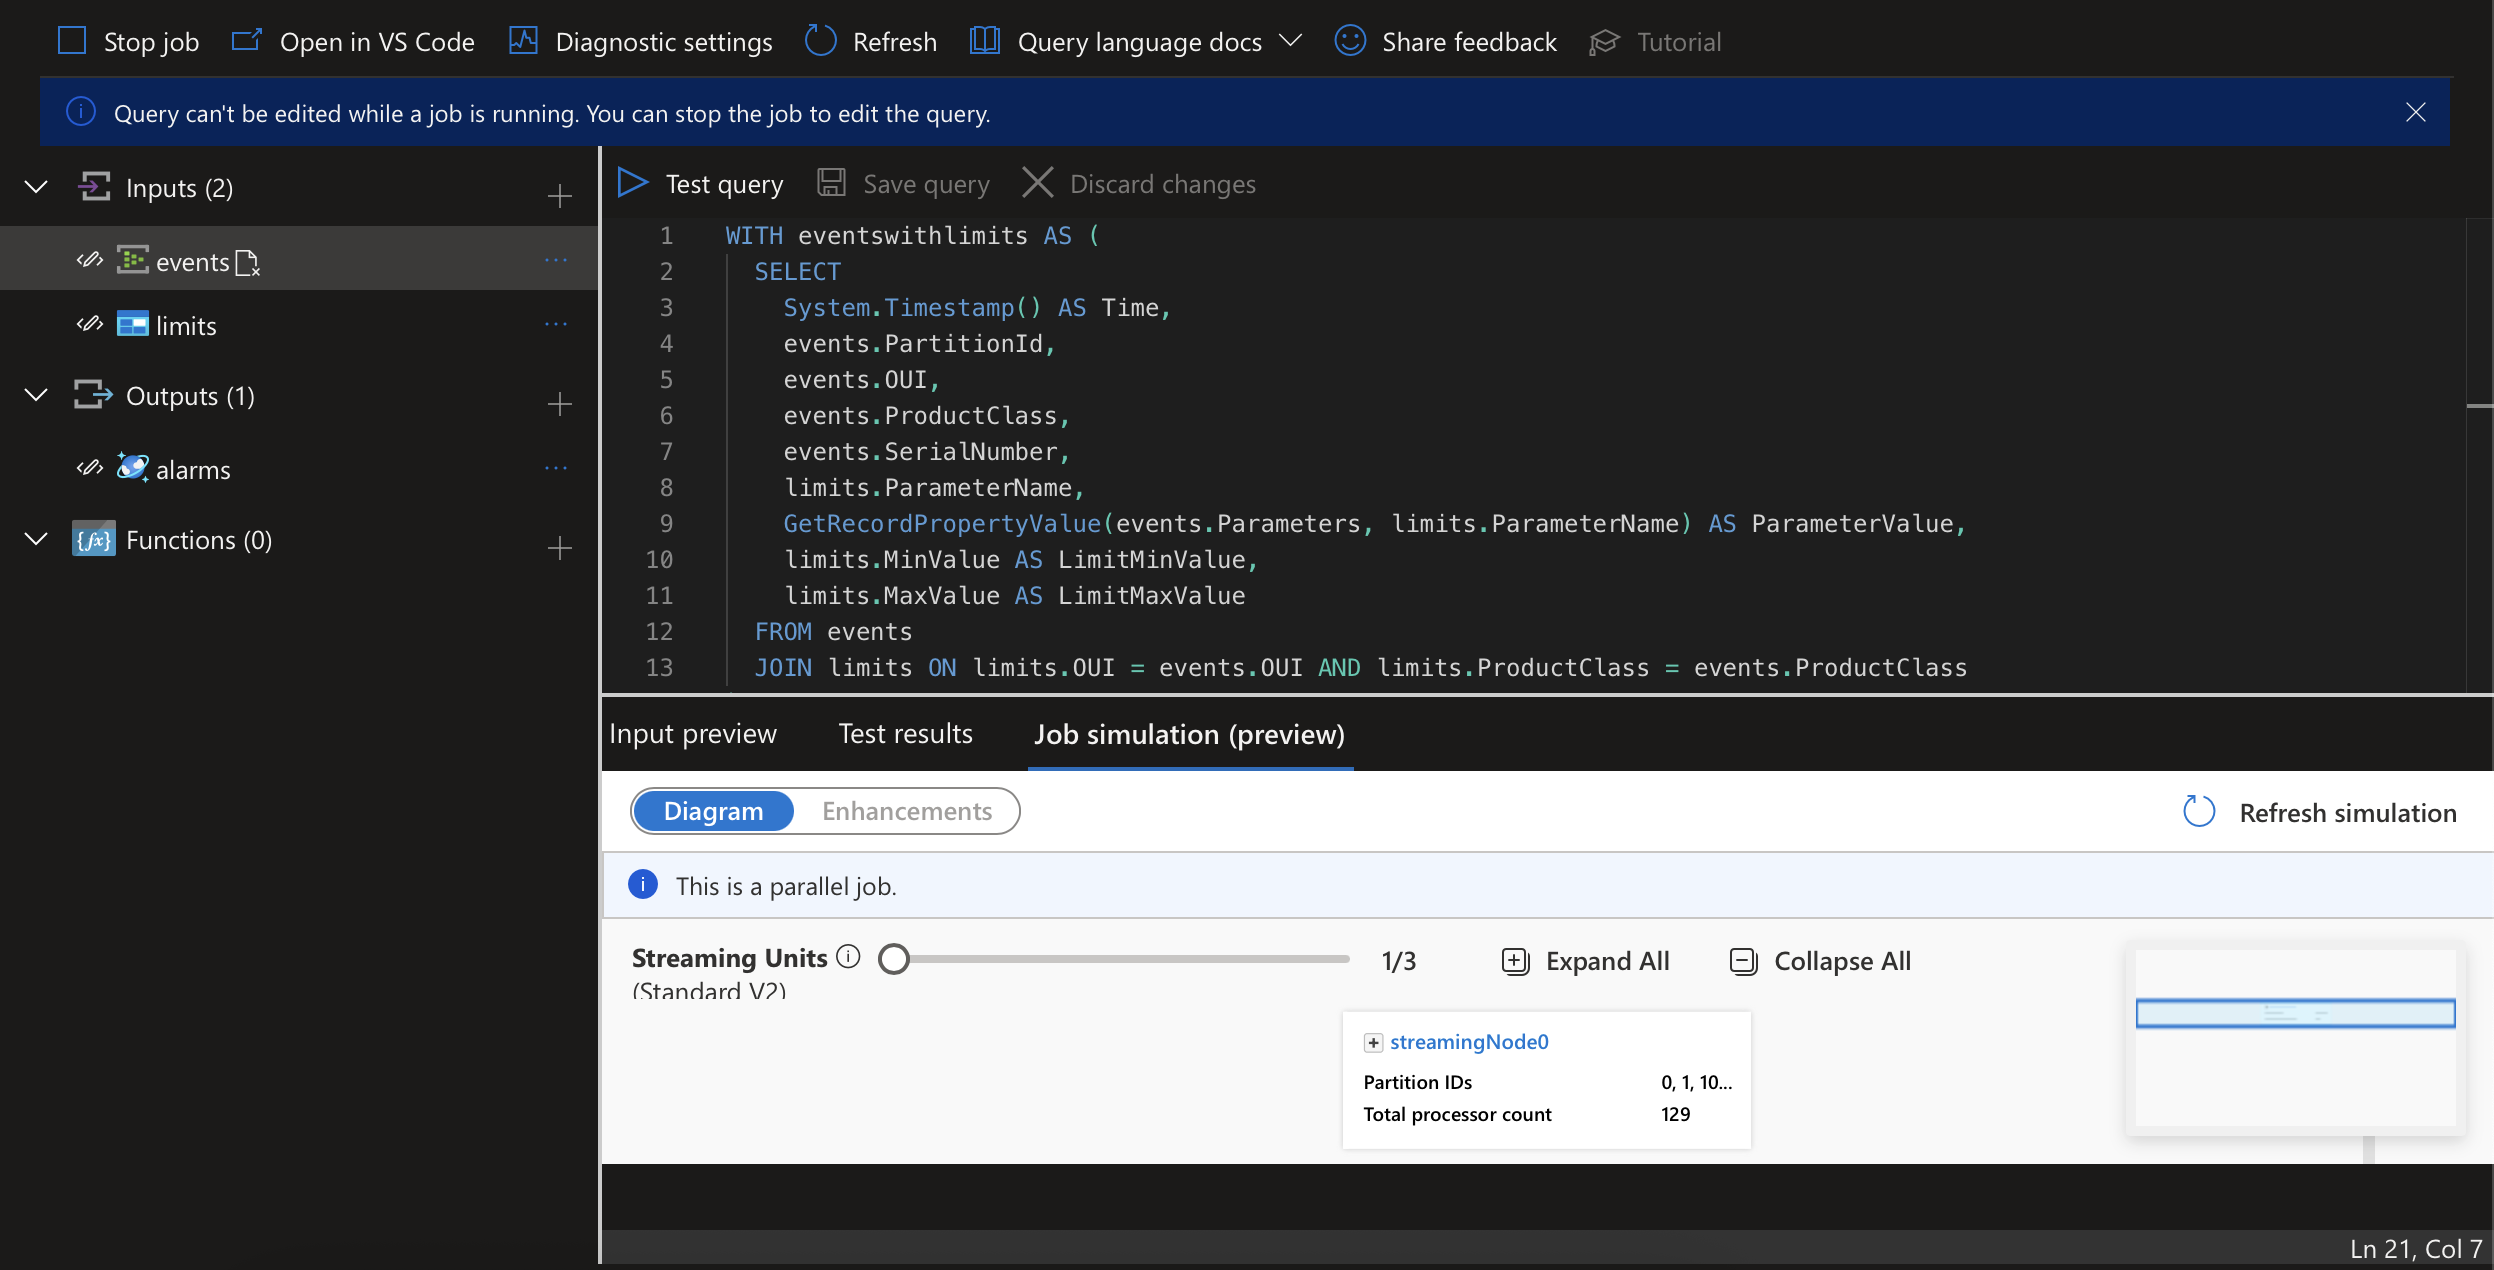
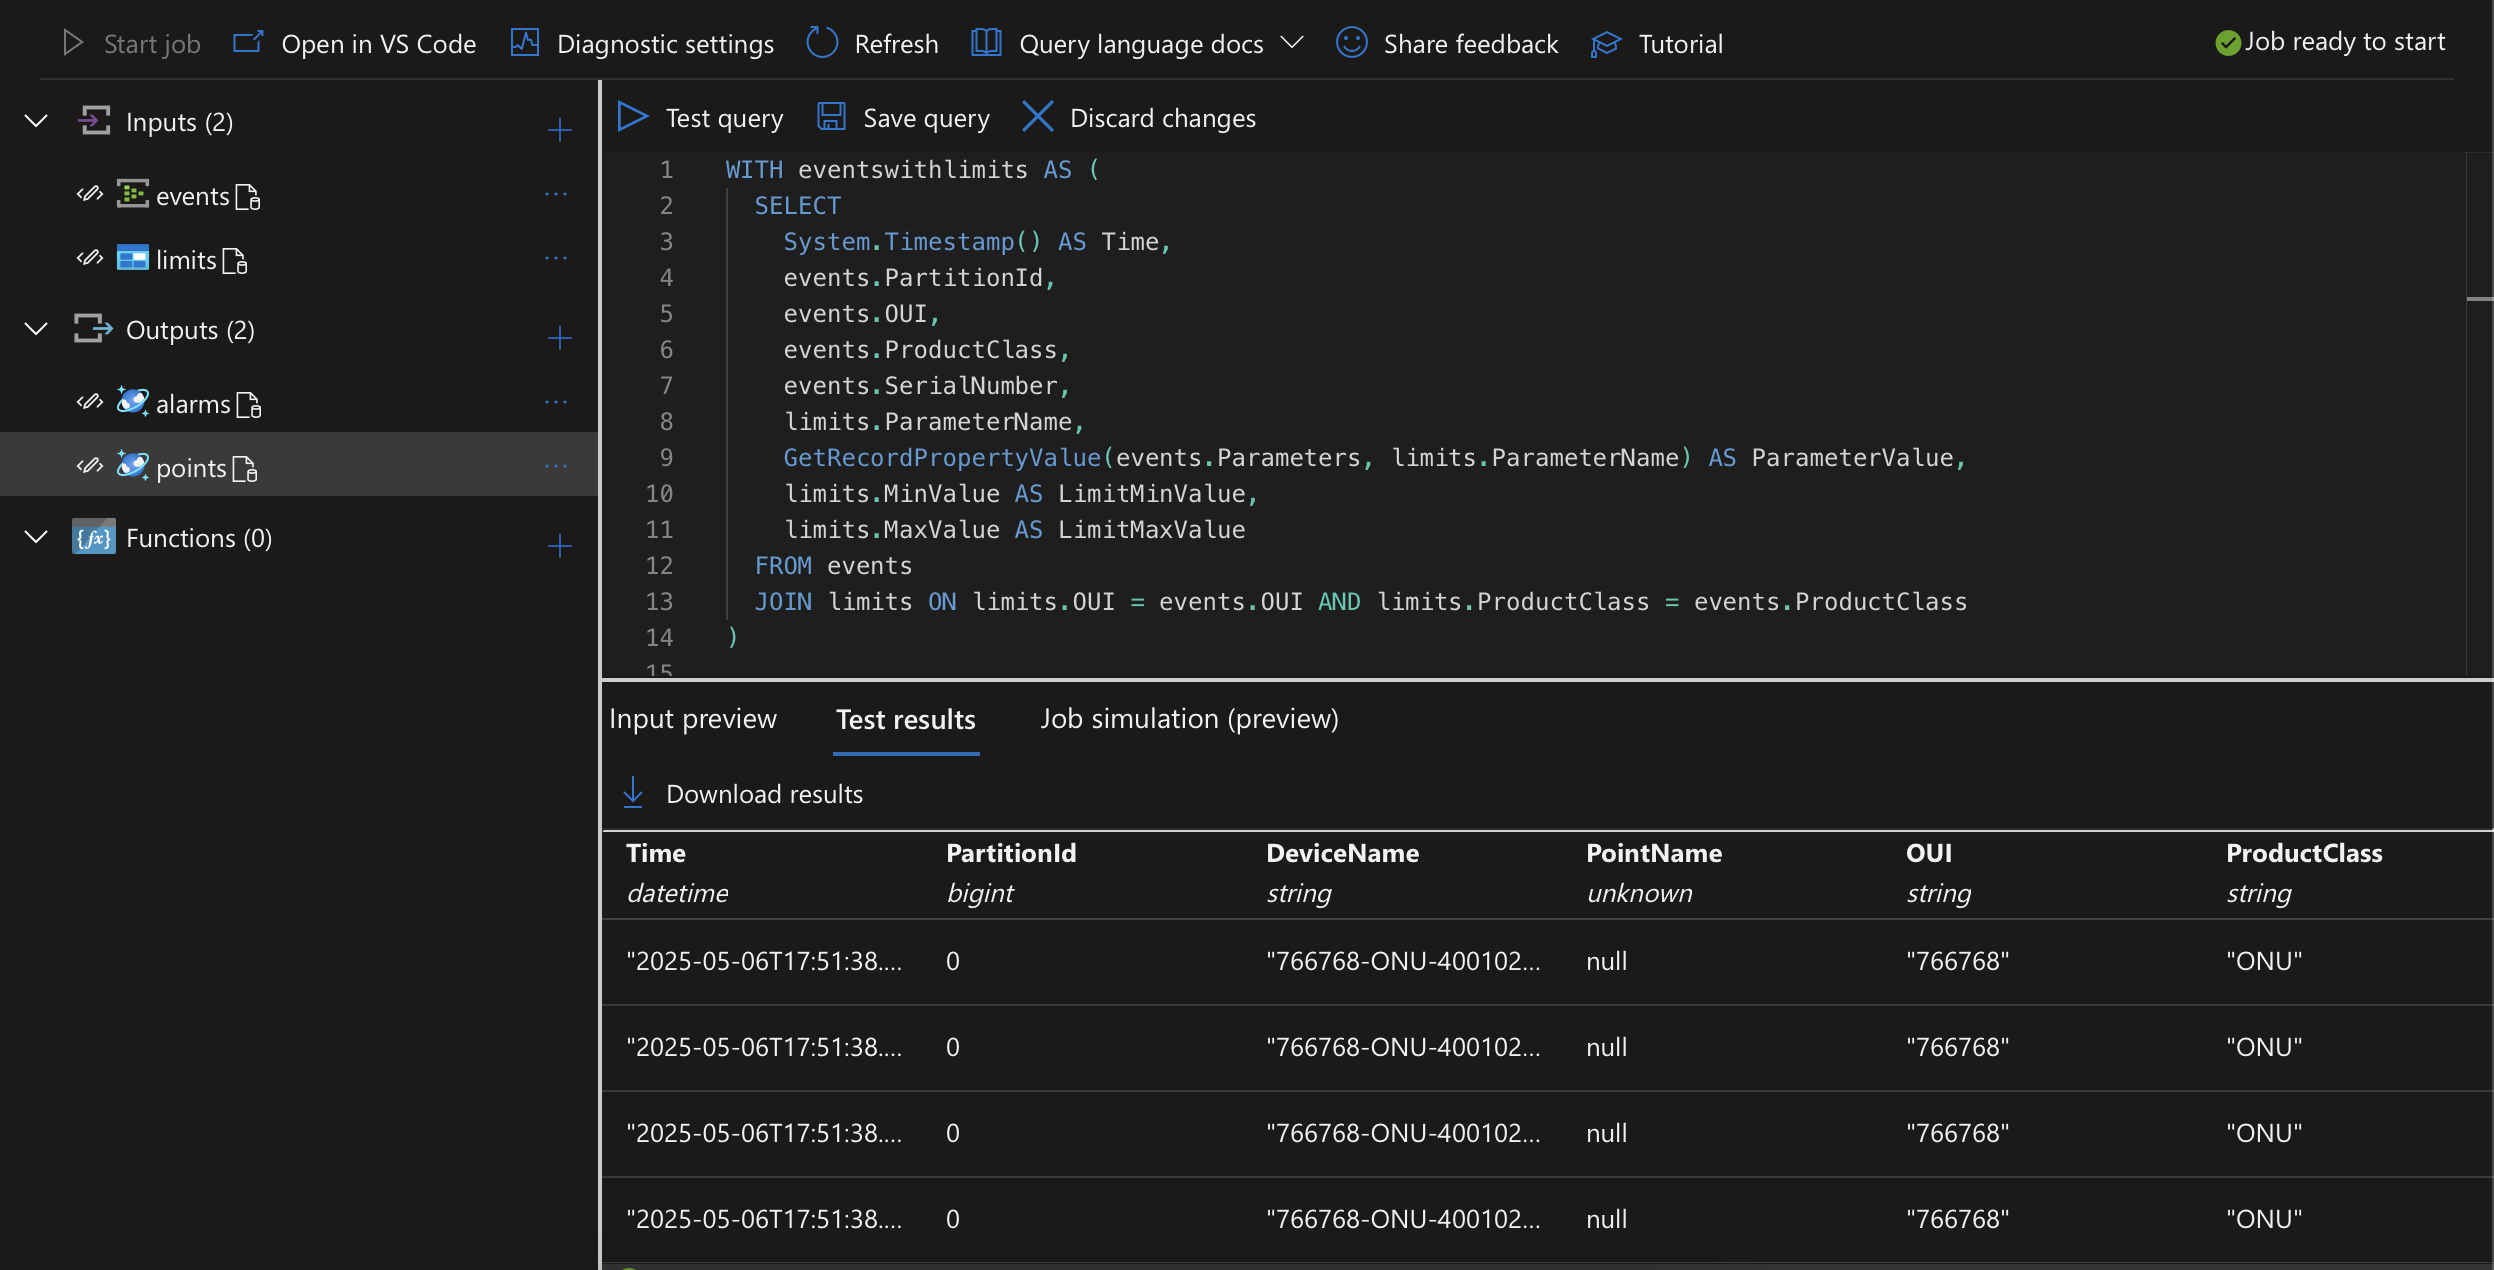
Improve Readme

diff --git a/readme.md b/readme.md
@@ -98,22 +98,22 @@ In scenarios like this, it is common practice to store the threshold configurati
     "OUI": "766768",
     "ProductClass": "ONU",
     "ParameterName" : "[Device.DeviceInfo.ProcessStatus.CPUUsage]",
-    "MinValue" : 0,
-    "MaxValue" : 80
+    "MinValue": 0,
+    "MaxValue": 80
   },
   {
     "OUI": "766768",
     "ProductClass": "ONU",
     "ParameterName" : "[Device.DeviceInfo.MemoryStatus.Free]",
-    "MinValue" : 256,
-    "MaxValue" : 2147483647
+    "MinValue": 256,
+    "MaxValue": 2147483647
   }
 ]
 ```
 
-2. Create a Cosmos DB account, database "collector" and containers "devices" and "alarms". Set the default TTL for the "alarms" collection to 10 minutes.
+2. Create a Cosmos DB account, database "collector" and containers "points" and "alarms". Set the partition key to `/DeviceName` for both containers. Set the default TTL for the "alarms" collection to 10 minutes to ensure that alarms are automatically deleted 10 minutes after their last update by the Stream Analytics job.
 
-3. Create a Stream Analytics job with two inputs and one output
+3. Create a Stream Analytics job with the following inputs, outputs and SAQL query:
 
 Inputs:
 
@@ -122,9 +122,10 @@ Inputs:
 
 Outputs:
 
-- "alarms" connected to the Cosmos DB collection "alarms".
+- "points" connected to the Cosmos DB collection "points". Set `PointName` as "Document ID" field.
+- "alarms" connected to the Cosmos DB collection "alarms". Set `AlarmName` as "Document ID" field.
 
-Query:
+SAQL Query:
 
 ```sql
 WITH eventswithlimits AS (
@@ -141,6 +142,18 @@ WITH eventswithlimits AS (
   FROM events
   JOIN limits ON limits.OUI = events.OUI AND limits.ProductClass = events.ProductClass
 )
+
+SELECT
+  System.Timestamp() AS Time,
+  PartitionId,
+  OUI + '-' + ProductClass + '-' + SerialNumber AS DeviceName,
+  GetMetadataPropertyValue(events, 'EventId') AS PointName,
+  OUI,
+  ProductClass,
+  SerialNumber,
+  Parameters
+INTO points
+FROM events
 
 SELECT
   System.Timestamp() AS Time,
@@ -171,7 +184,7 @@ HAVING MIN(ParameterValue) < LimitMinValue OR MAX(ParameterValue) > LimitMaxValu
 -- HAVING NOT AVG(ParameterValue) BETWEEN LimitMinValue AND LimitMaxValue
 ```
 
-Stream processing job:
+The Stream Analytics job should look like the screenshot below:
 
 ![Azure Stream Analytics job](./docs/azure_streamanalytics.png)
 
@@ -224,11 +237,14 @@ go run main.go
 cd grafana/k6
 k6 run collector.js
 ```
-CPU usage alarm:
+
+Open the "collector" database and the "alarms" container in [Azure Cosmos DB Data Explorer](https://cosmos.azure.com).
+
+CPU usage alarm in the "alarms" container:
 
 ![CPU usage alarm in Azure Coosmos DB](./docs/azure_cosmos_alarms_cpuusage.png)
 
-Memory alarm:
+Memory usage alarm in the "alarms" container:
 
 ![Memory alarm in Azure Data Explorer](./docs/azure_cosmos_alarms_memory.png)
 
